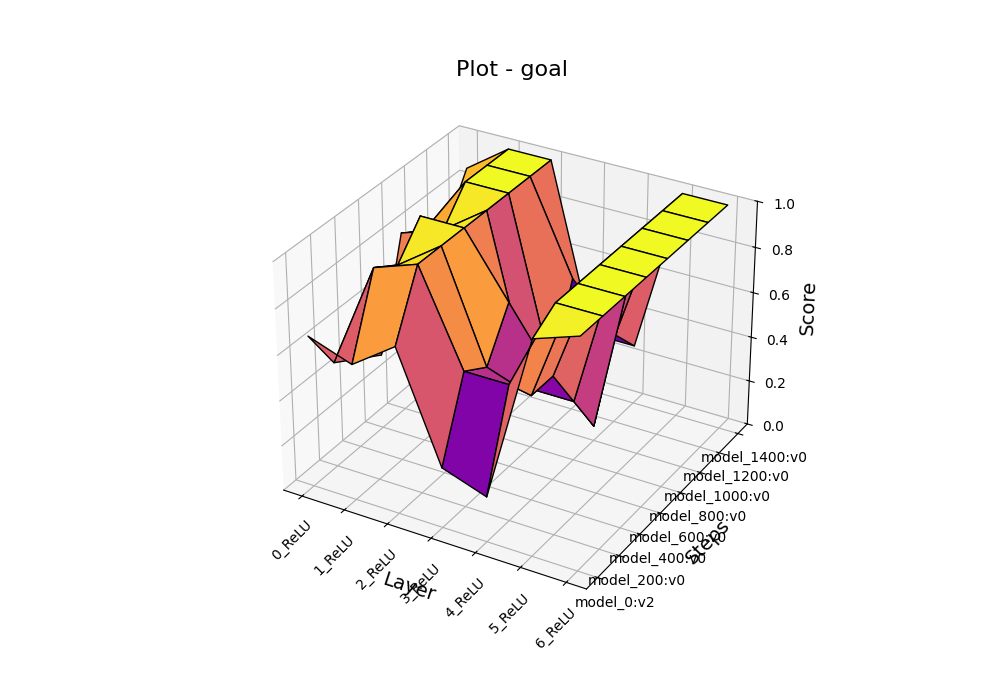
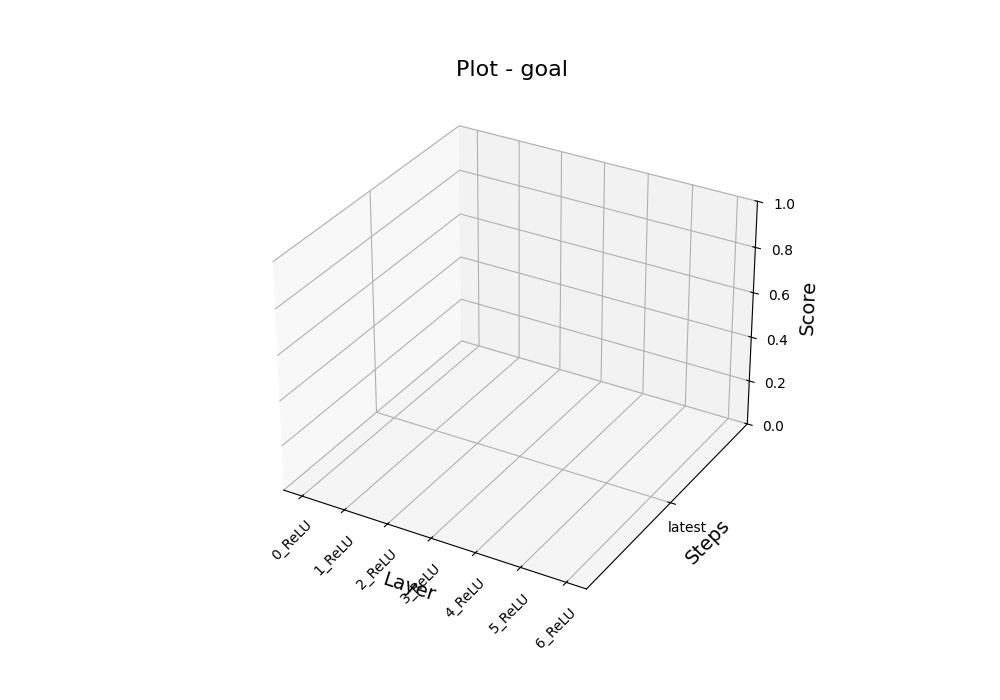
feat: added heatmap to observation

diff --git a/xailib/scripts/concept_backpropagation.py b/xailib/scripts/concept_backpropagation.py
@@ -1,17 +1,23 @@
+import numpy as np
+
+from multigrid.core.agent import Agent
+from multigrid.core.constants import TILE_PIXELS
+from multigrid.core.grid import Grid
 from multigrid.envs.go_to_goal import GoToGoalEnv
-from xailib.core.plotting.plot3d import plot_3d
+from multigrid.utils.observation import agents_from_agent_observation
 from rllib.algorithms.dqn.dqn import DQN
 from rllib.algorithms.dqn.dqn_config import DQNConfig
 from utils.common.observation import (
-    zip_observation_data,
-    set_require_grad,
     load_and_split_observation,
+    set_require_grad,
+    zip_observation_data,
 )
 from utils.core.model_loader import ModelLoader
 from xailib.common.activations import compute_activations_from_artifacts
-from xailib.common.tcav_score import tcav_scores
-from xailib.common.probes import get_probes
 from xailib.common.concept_backpropagation import feature_concept_importance
+from xailib.common.probes import get_probes
+from xailib.common.tcav_score import tcav_scores
+from xailib.core.plotting.heatmap import plot_heatmap
 
 env = GoToGoalEnv(render_mode="rgb_array")
 config = (
@@ -47,18 +53,20 @@ test_activations, test_input, test_output = compute_activations_from_artifacts(
     model_artifacts, test_observation_zipped
 )
 
-print(len(test_activations["latest"]))
+last_layer_activations = next(reversed(test_activations["latest"].values()))["output"]
 
-feature_concept_importance = feature_concept_importance(
-    test_activations["latest"][layer], test_input["latest"]
+grads_img, grads_dir = feature_concept_importance(
+    last_layer_activations, test_input["latest"]
 )
+
+for grad, obs in zip(grads_img, test_observation):
+    numpy_grad = grad.detach().numpy()
+    grid_obs = np.array(obs.features[0]["image"])
+    agents = agents_from_agent_observation(grid_obs)
+    grid = Grid.from_numpy(grid_obs)
+    img = grid.render(TILE_PIXELS, agents=agents)
+
+    grad_sum = numpy_grad.sum(axis=2)  # sum of gradients for the observation object
+    plot_heatmap(grad_sum, background=img, alpha=0.5, title=concept)
 
 tcav_scores = tcav_scores(test_activations, test_output, probes)
-
-plot_3d(
-    tcav_scores,
-    label=concept,
-    filename="concept_score",
-    min=0,
-    max=1,
-)

diff --git a/multigrid/utils/observation.py b/multigrid/utils/observation.py
@@ -1,12 +1,16 @@
+from typing import List
+
 import numpy as np
 from numpy.typing import NDArray as ndarray
+from multigrid.utils.position import Position
 
-from multigrid.core.agent import AgentState
+from multigrid.core.agent import Agent, AgentState
 from multigrid.core.constants import Color, Direction, WorldObjectType
-from multigrid.core.world_object import WorldObject, Wall
+from multigrid.core.world_object import Wall, WorldObject
 
 WALL_ENCODING = Wall().encode()
 UNSEEN_ENCODING = WorldObject(WorldObjectType.unseen, Color.from_index(0)).encode()
+EMPTY_ENCODING = WorldObject(WorldObjectType.empty, Color.from_index(0)).encode()
 ENCODE_DIM = WorldObject.dim
 
 GRID_ENCODING_IDX = slice(None)
@@ -215,3 +219,34 @@ def get_view_exts(
     top_left[agent_dir == UP, 1] = agent_y[agent_dir == UP] - agent_view_size + 1
 
     return top_left
+
+
+def agents_from_agent_observation(obs_grid: ndarray[np.int_]) -> List[Agent]:
+    width, height = obs_grid.shape[0], obs_grid.shape[1]
+    agent_encodings = []
+    agents_pos = []
+    for y in range(height):
+        for x in range(width):
+            pos = Position(x, y)
+            cell = obs_grid[pos.y, pos.x]
+            if cell[TYPE] == WorldObjectType.agent.to_index():
+                agent_encodings.append(cell.copy())
+                agents_pos.append(pos())
+                obs_grid[pos.y, pos.x] = EMPTY_ENCODING
+            # TODO: This should be handled differently
+            if cell[TYPE] == WorldObjectType.unseen.to_index():
+                obs_grid[pos.y, pos.x] = EMPTY_ENCODING
+
+    agent_state = AgentState(len(agent_encodings))
+
+    for i in range(len(agent_encodings)):
+        agent_state[i, AGENT_ENCODING_IDX] = agent_encodings[i]
+        agent_state[i, AGENT_POS_IDX] = agents_pos[i]
+
+    agents = []
+    for i in range(len(agent_encodings)):
+        agent = Agent(i)
+        agent.state = agent_state[agent.index]
+        agents.append(agent)
+
+    return agents

diff --git a/multigrid/core/grid.py b/multigrid/core/grid.py
@@ -1,11 +1,12 @@
 from collections import defaultdict
-from typing import Any, Iterable, Optional, List
+from typing import Any, Iterable, List, Optional
 
 import numpy as np
 from numpy.typing import NDArray
 
 from multigrid.core.constants import TILE_PIXELS
 from multigrid.core.world_object import WorldObject
+from multigrid.utils import position
 from multigrid.utils.position import Position
 from multigrid.utils.random import RandomMixin
 from multigrid.utils.rendering import (
@@ -34,6 +35,27 @@ class Grid:
             (width, height, WorldObject.dim), dtype=int
         )
         self.state[...] = WorldObject.empty()
+
+    @staticmethod
+    def from_numpy(grid: NDArray[np.int_]) -> "Grid":
+        assert grid.ndim == 3, "Input grid must be 3-dimensional."
+        height, width, dim = grid.shape
+        assert (
+            dim == WorldObject.dim
+        ), f"Last dimension must match WorldObject.dim ({WorldObject.dim})."
+
+        new_grid = Grid(width, height)
+        new_grid.state = grid.copy()
+        for j in range(height):  # Iterate over rows
+            for i in range(width):  # Iterate over columns
+                pos = Position(i, j)
+                grid_obj = grid[pos.y, pos.x]
+                new_grid.state[pos.x, pos.y] = grid_obj
+                obj = WorldObject.from_array(grid_obj)  # Row-major indexing
+                if obj is not None:
+                    new_grid._world_objects[pos.x, pos.y] = obj
+
+        return new_grid
 
     @classmethod
     def render_tile(

diff --git a/multigrid/core/world_object.py b/multigrid/core/world_object.py
@@ -1,11 +1,12 @@
 import functools
-from typing import TYPE_CHECKING, Union
+import logging
+from typing import TYPE_CHECKING, Union, Optional
 
 import numpy as np
 from numpy.typing import NDArray
-from multigrid.utils.position import Position
 
 from multigrid.core.constants import Color, State, WorldObjectType
+from multigrid.utils.position import Position
 from multigrid.utils.rendering import fill_coords, point_in_rect
 
 if TYPE_CHECKING:
@@ -51,7 +52,9 @@ class WorldObjectMeta(type):
                 WorldObjectType.add_item(type_name, type_name)
 
             # Store the object class with its corresponding type index
-            meta._TYPE_IDX_TO_CLASS[WorldObjectType(type_name).to_index()] = cls
+            type_idx = WorldObjectType(type_name).to_index()
+
+            meta._TYPE_IDX_TO_CLASS[type_idx] = cls
         return cls
 
 
@@ -85,7 +88,7 @@ class WorldObject(np.ndarray, metaclass=WorldObjectMeta):
         return WorldObject(type_name=WorldObjectType.empty)
 
     @staticmethod
-    def from_array(arr: list[int]) -> ["WorldObject", None]:
+    def from_array(arr: list[int]) -> Optional["WorldObject"]:
         type_idx = arr[WorldObject.TYPE]
 
         if type_idx == WorldObjectType.empty.to_index():

diff --git a/xailib/core/plotting/heatmap.py b/xailib/core/plotting/heatmap.py
@@ -1,0 +1,43 @@
+from typing import List
+
+import matplotlib.colors as mcolors
+import matplotlib.pyplot as plt
+import seaborn as sns
+from numpy.typing import NDArray
+
+
+def plot_heatmap(
+    data: NDArray,
+    background: NDArray | None = None,
+    alpha: float = 0.5,
+    title: str = "",
+    yticks: List | bool = False,
+    xticks: List | bool = False,
+    cmap="coolwarm",
+    figsize=(10, 8),
+    cbar=True,
+):
+    plt.figure(figsize=figsize)
+
+    if background is not None:
+        plt.imshow(
+            background[::-1],
+            aspect="auto",
+            extent=(0, data.shape[1], 0, data.shape[0]),
+        )
+
+    norm = mcolors.Normalize(vmin=data.min(), vmax=data.max())
+
+    sns.heatmap(
+        data,
+        annot=True,
+        xticklabels=xticks,
+        yticklabels=yticks,
+        cmap=cmap,
+        cbar=cbar,
+        alpha=alpha,
+        norm=norm,
+    )
+    plt.axis("off")
+    plt.title(title)
+    plt.show()

diff --git a/utils/common/observation.py b/utils/common/observation.py
@@ -21,6 +21,10 @@ class Observation(np.ndarray):
 
         return obj
 
+    @property
+    def features(self):
+        return self[..., self.DATA]
+
 
 def observation_from_file(path: str) -> Observation:
     assert path.endswith(".json")

diff --git a/multigrid/core/constants.py b/multigrid/core/constants.py
@@ -34,6 +34,7 @@ class WorldObjectType(str, IndexedEnum):
     box = "box"
     goal = "goal"
     agent = "agent"
+    container = "container"
 
 
 class Color(str, IndexedEnum):
